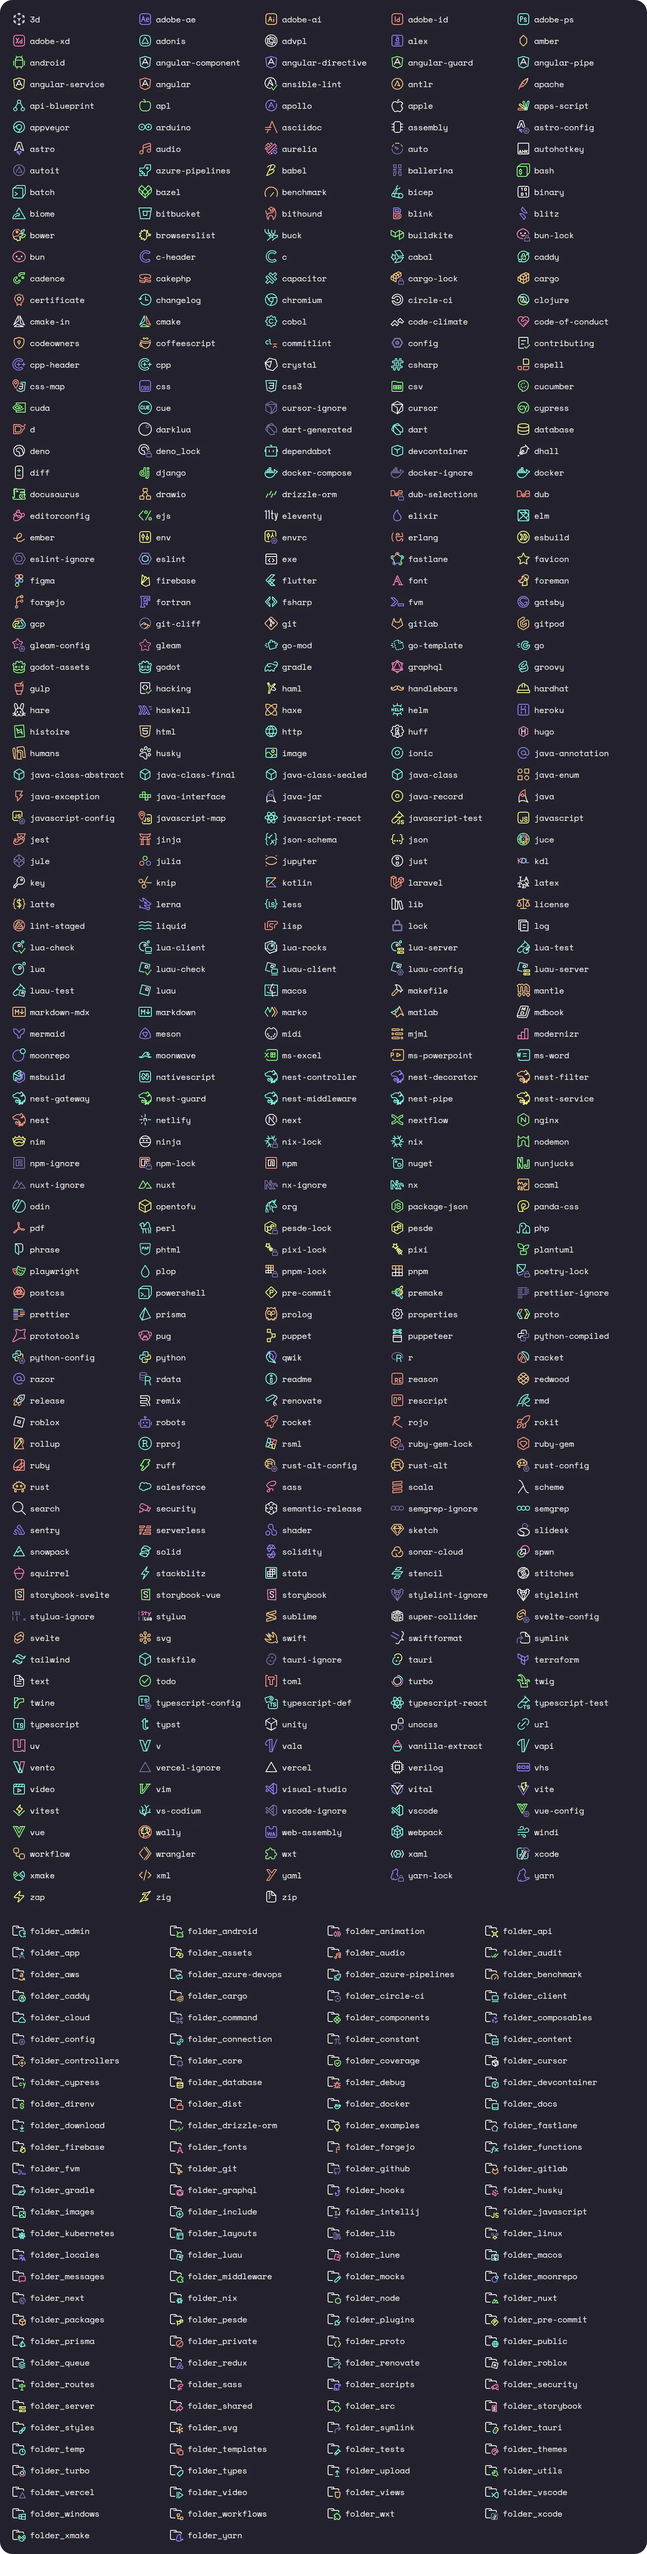
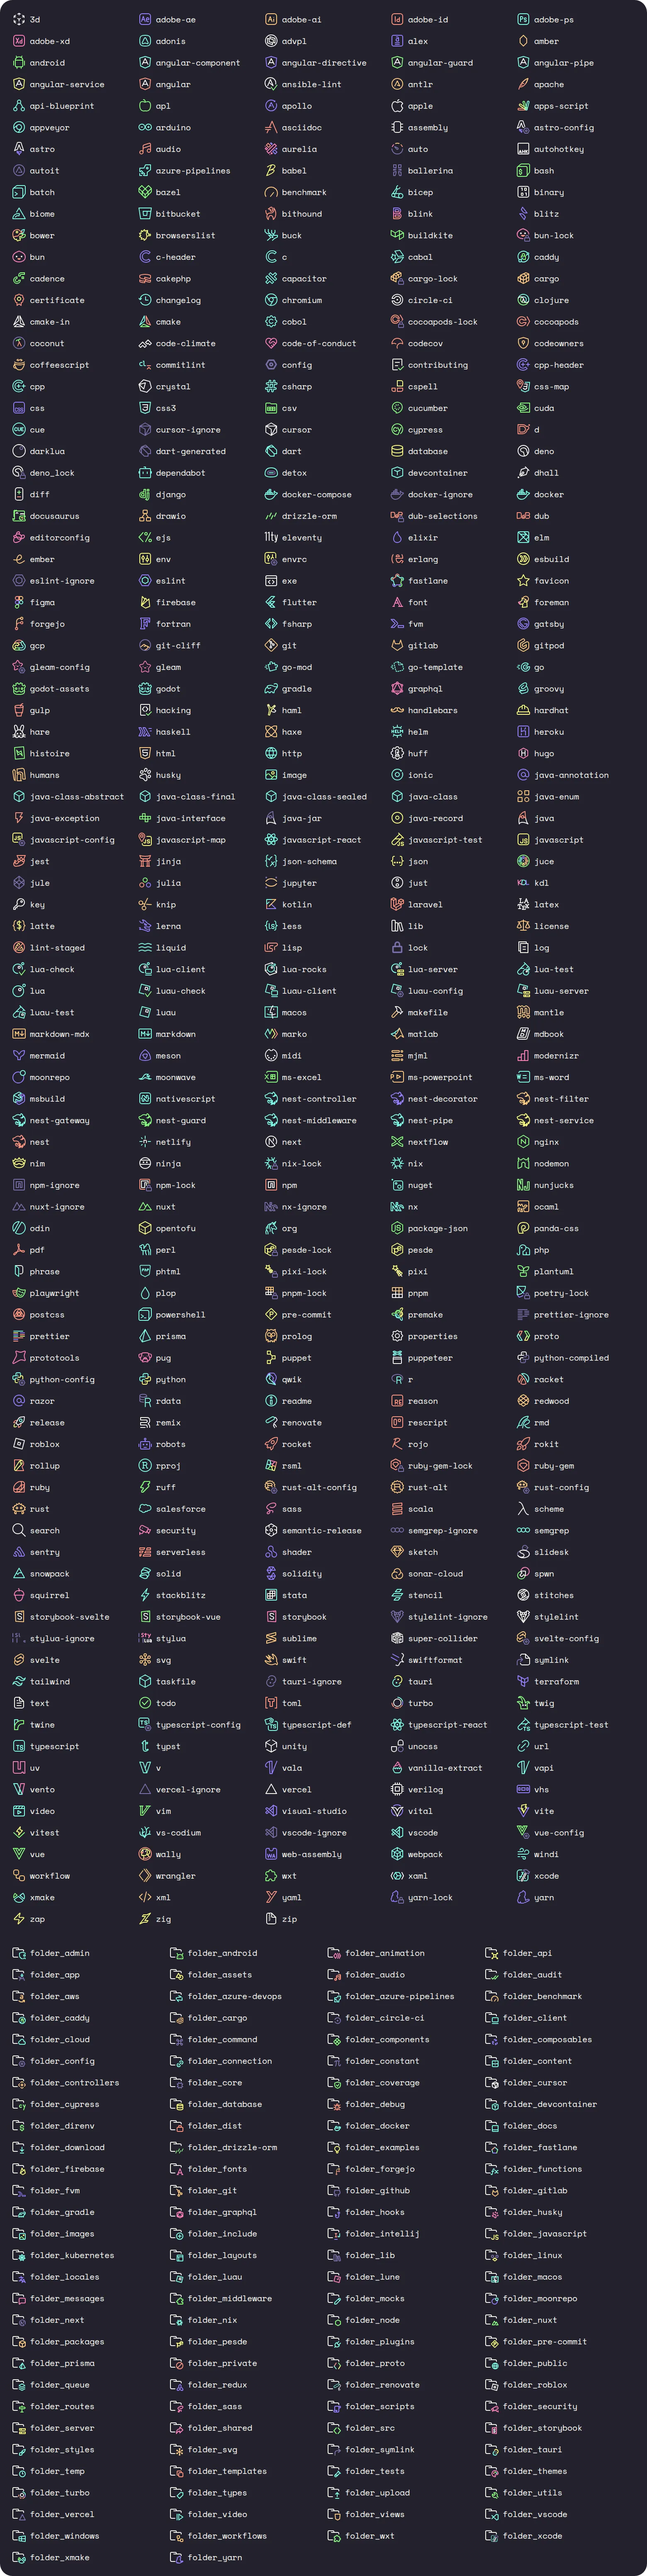
+5 iconos 4.

diff --git a/src/defaults/fileIcons.ts b/src/defaults/fileIcons.ts
@@ -459,6 +459,21 @@ const fileIcons: FileIcons = {
       'cbl',
     ],
   },
+  'cocoapods-lock': {
+    fileNames: [
+      'podfile.lock',
+    ],
+  },
+  'cocoapods': {
+    fileNames: [
+      'podfile',
+    ],
+  },
+  'coconut': {
+    fileExtensions: [
+      'coco',
+    ],
+  },
   'code-climate': {
     fileNames: ['.codeclimate.yml'],
   },
@@ -467,6 +482,12 @@ const fileIcons: FileIcons = {
       'code_of_conduct.md',
       'code_of_conduct.txt',
       'code_of_conduct',
+    ],
+  },
+  'codecov': {
+    fileNames: [
+      '.codecov.yml',
+      'codecov.yml',
     ],
   },
   'codeowners': {
@@ -664,6 +685,15 @@ const fileIcons: FileIcons = {
     fileNames: [
       'dependabot.yml',
       'dependabot.yaml',
+    ],
+  },
+  'detox': {
+    fileNames: [
+      '.detoxrc',
+      '.detoxrc.js',
+      '.detoxrc.json',
+      'detox.config.js',
+      'detox.config.json',
     ],
   },
   'devcontainer': {
